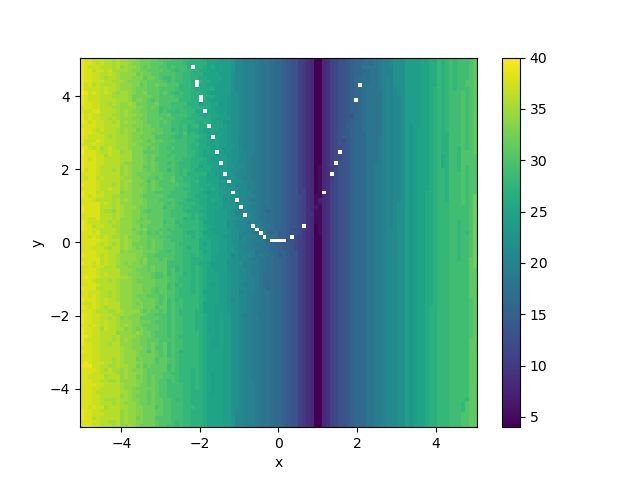
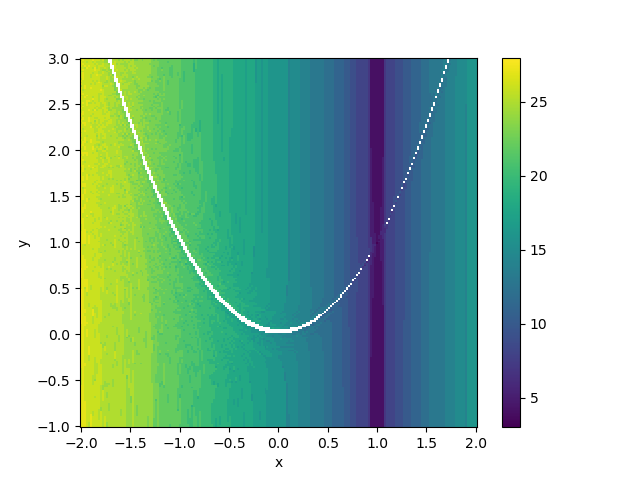
minor edit

diff --git a/plots.py b/plots.py
@@ -16,13 +16,13 @@ def ackley_2D(x, y):
 def rastrigin_2D(x, y):
     return rastrigin.func(np.array([x, y]))
 
-def contour_plot(f, b, levels):
+def contour_plot(f, xmin, xmax, ymin, ymax, levels):
     """
     b (int): min and max values; the boundaries
     f (func): function from R^2 to R
     """
-    x = np.linspace(-b, b, 100)
-    y = np.linspace(-b, b, 100)
+    x = np.linspace(xmin, xmax, 100)
+    y = np.linspace(ymin, ymax, 100)
     X, Y = np.meshgrid(x, y)
 
     Z = f(X, Y)
@@ -32,9 +32,9 @@ def contour_plot(f, b, levels):
     plt.ylabel("y")
     plt.colorbar()
     plt.show()
-    # plt.savefig(f"images/{f.__name__}.png")
+    # plt.savefig(f"images/{f.__name__}_2.png")
 
-# contour_plot(rosenbrock_2D, 5, range(0, 10, 1))
-# contour_plot(himmelblau_2D, 5, range(0, 101, 10))
-# contour_plot(rastrigin_2D, 5, range(0, 41, 5))
-# contour_plot(ackley_2D, 5, range(10))
+# contour_plot(rosenbrock_2D, -2, 2, -1, 3, range(0, 10, 1))
+# contour_plot(himmelblau_2D, -5, 5, -5, 5, range(0, 101, 10))
+# contour_plot(rastrigin_2D, -5, 5, -5, 5, range(0, 41, 5))
+# contour_plot(ackley_2D, -5, 5, -5, 5, range(10))

diff --git a/testing.py b/testing.py
@@ -227,6 +227,5 @@ def number_of_iterations_plot(f: Descent, descent_mode, step_selection_mode, wid
 
 # function_convergence_plot(ro, [-1, 1.2], ro.newton, wolfe, xlog=False, ylog=True)
 # function_convergence_plot(hi, [0.5, 3.], hi.steepest, backtracking, xlog=False, ylog=True)
-number_of_iterations_plot(ro, ro.newton, wolfe) # This is quite interesting
+number_of_iterations_plot(ro, ro.newton, wolfe, width=2, density=200) # This is quite interesting
 # number_of_iterations_plot(ra, ra.newton, wolfe, width=1)
-
